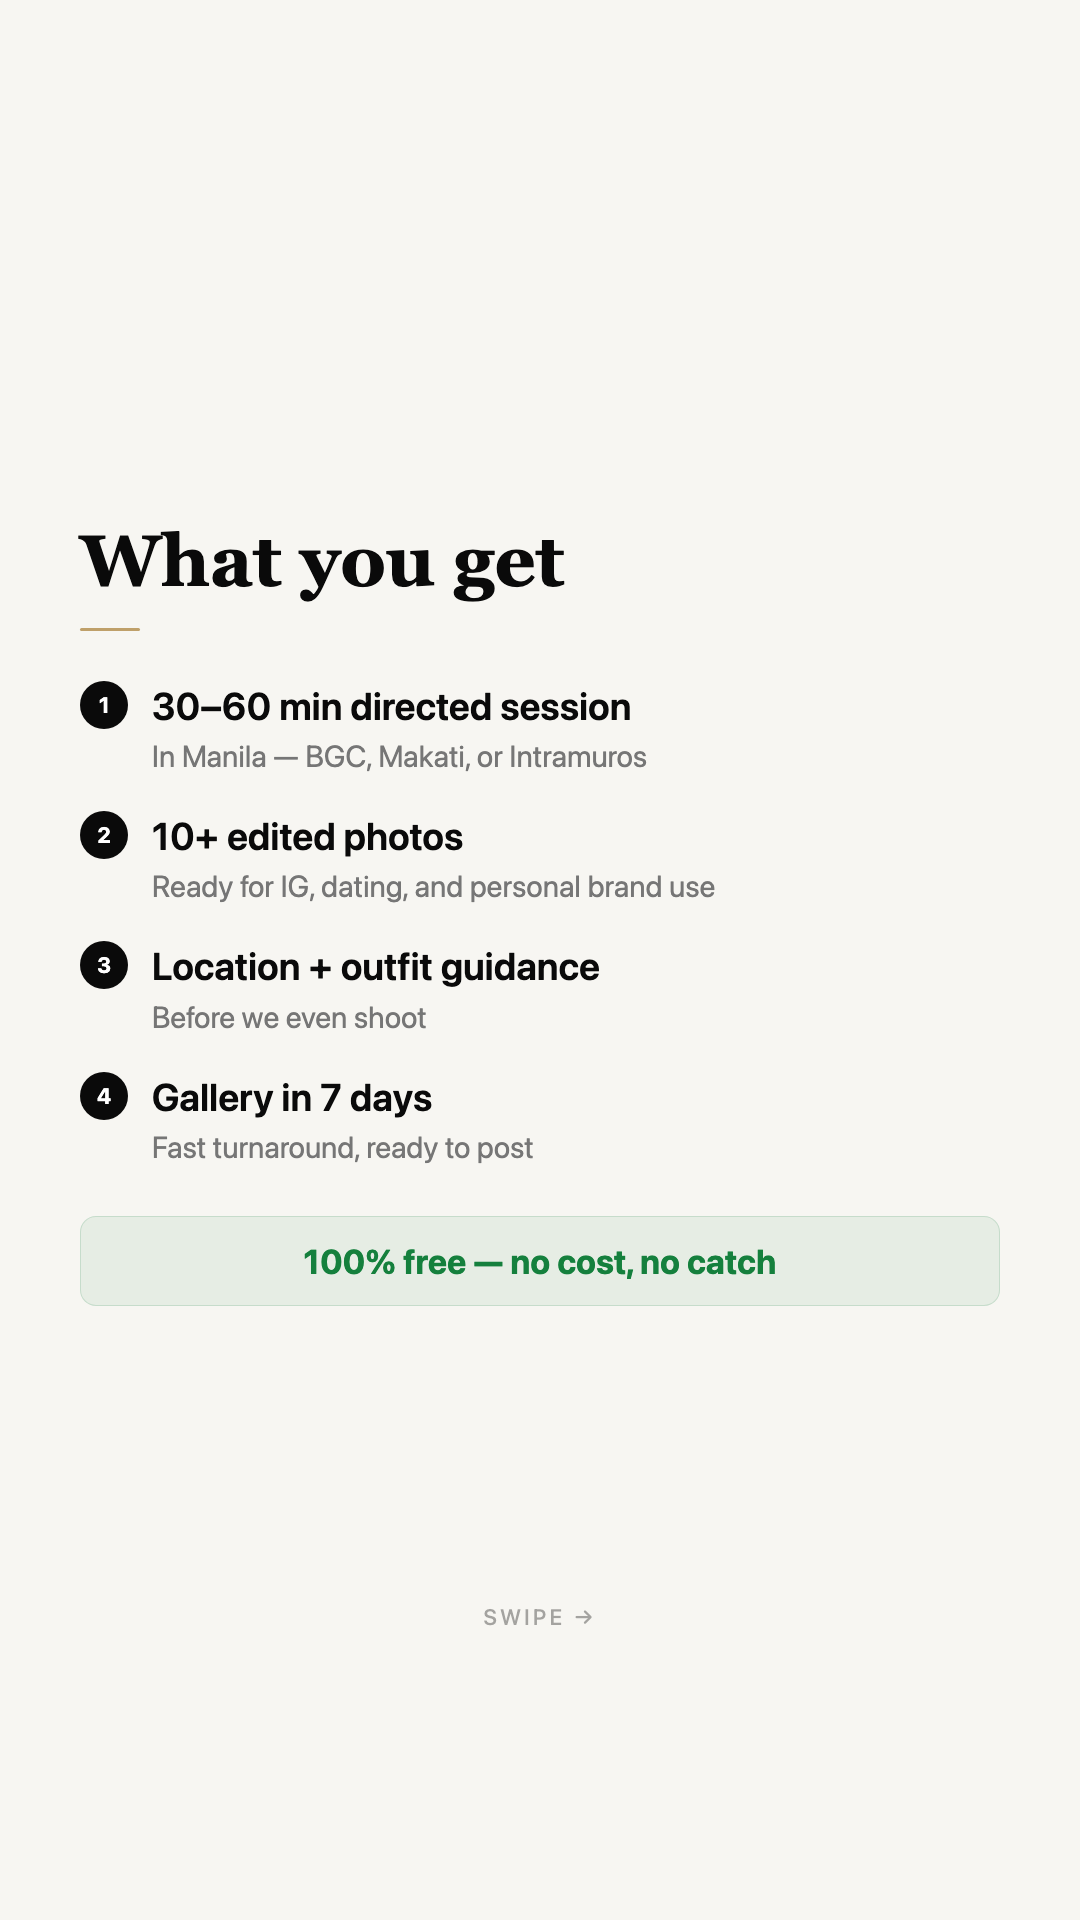
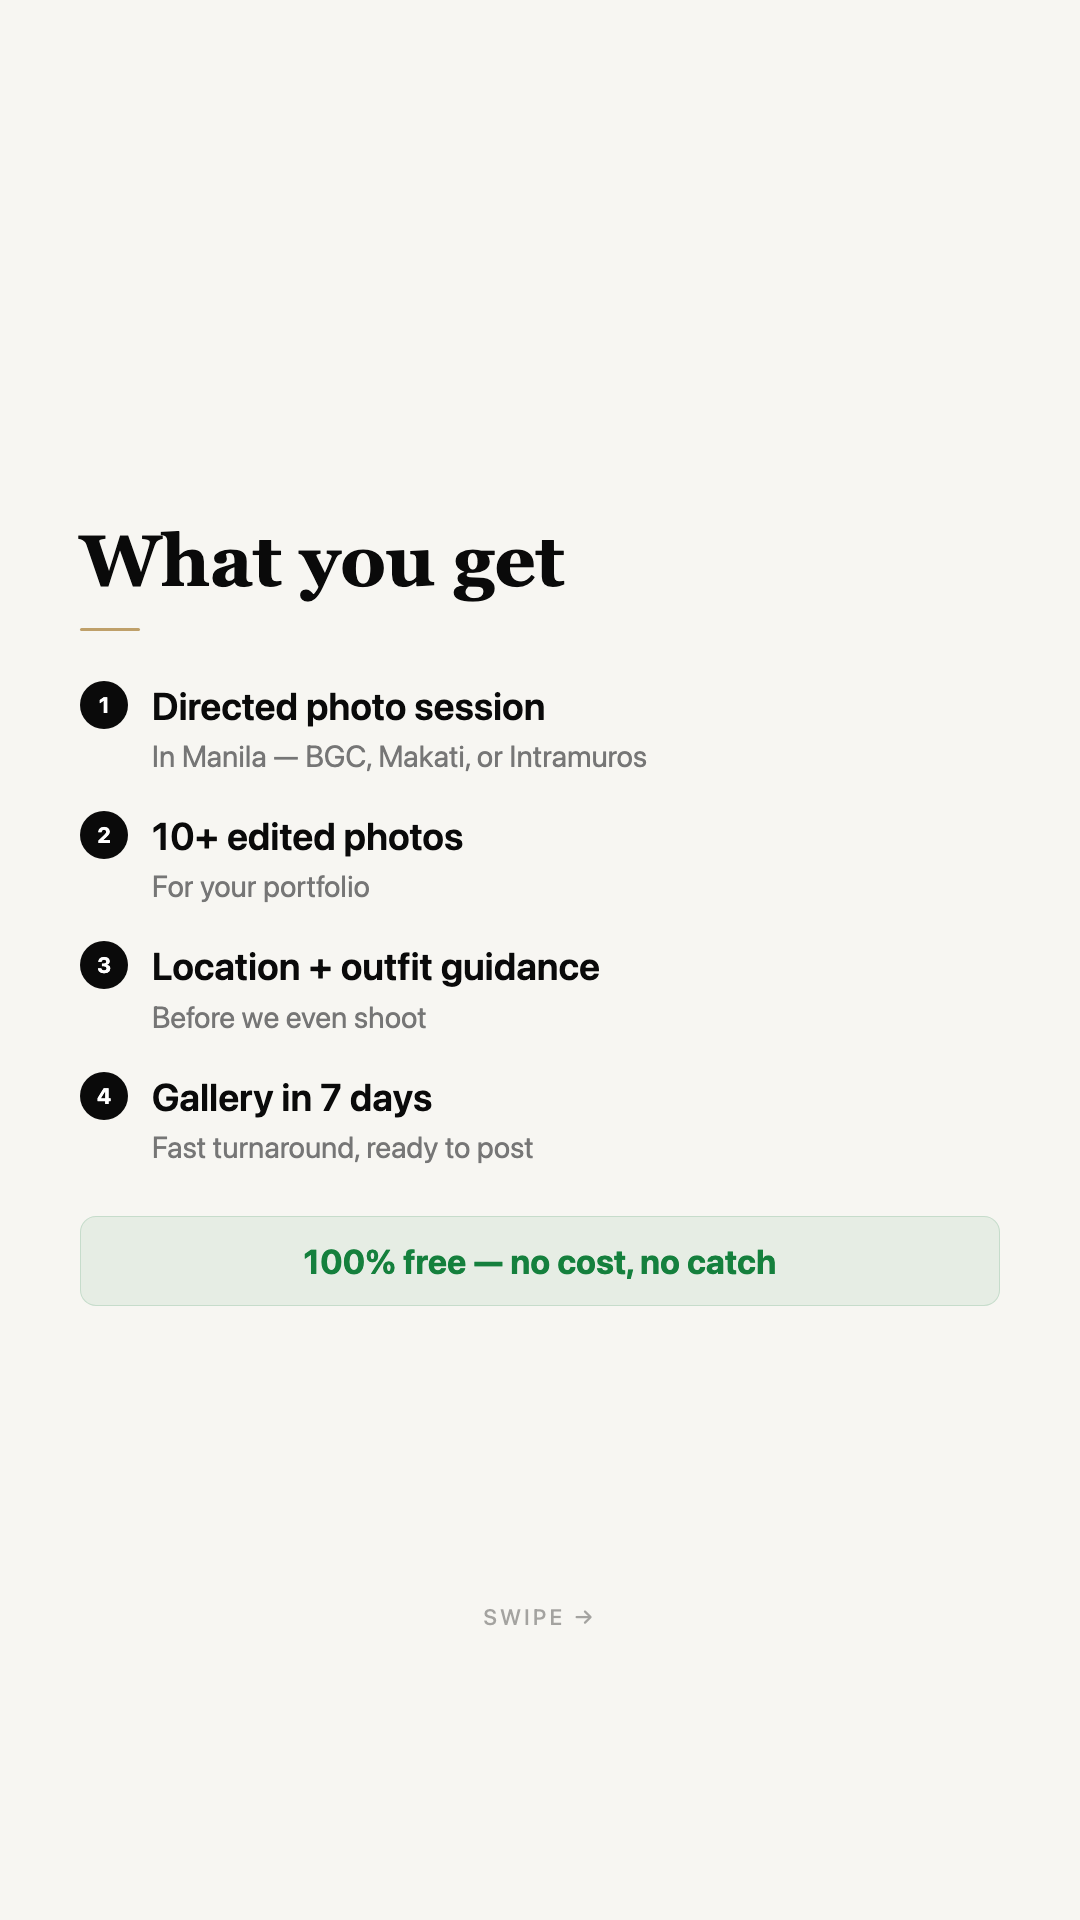
AI: Update copy for model audience - remove session time, simplify deliverables
- "30 to 60 minute directed session" → "Directed photo session"
- "ready for IG, dating, and personal brand use" → "for your portfolio"
- Updated both landing page and carousel ad slides

Changed region(s): [[0.1528, 0.4375, 0.6722, 0.4688], [0.1528, 0.3438, 0.5806, 0.375]]

diff --git a/app/manila-free/page.tsx b/app/manila-free/page.tsx
@@ -28,8 +28,8 @@ const goodFor = [
 ]
 
 const deliverables = [
-  '30 to 60 minute directed session in Manila',
-  '10+ edited photos ready for IG, dating, and personal brand use',
+  'Directed photo session in Manila',
+  '10+ edited photos for your portfolio',
   'Location and outfit guidance before we shoot',
   'Final gallery in 7 days'
 ]
